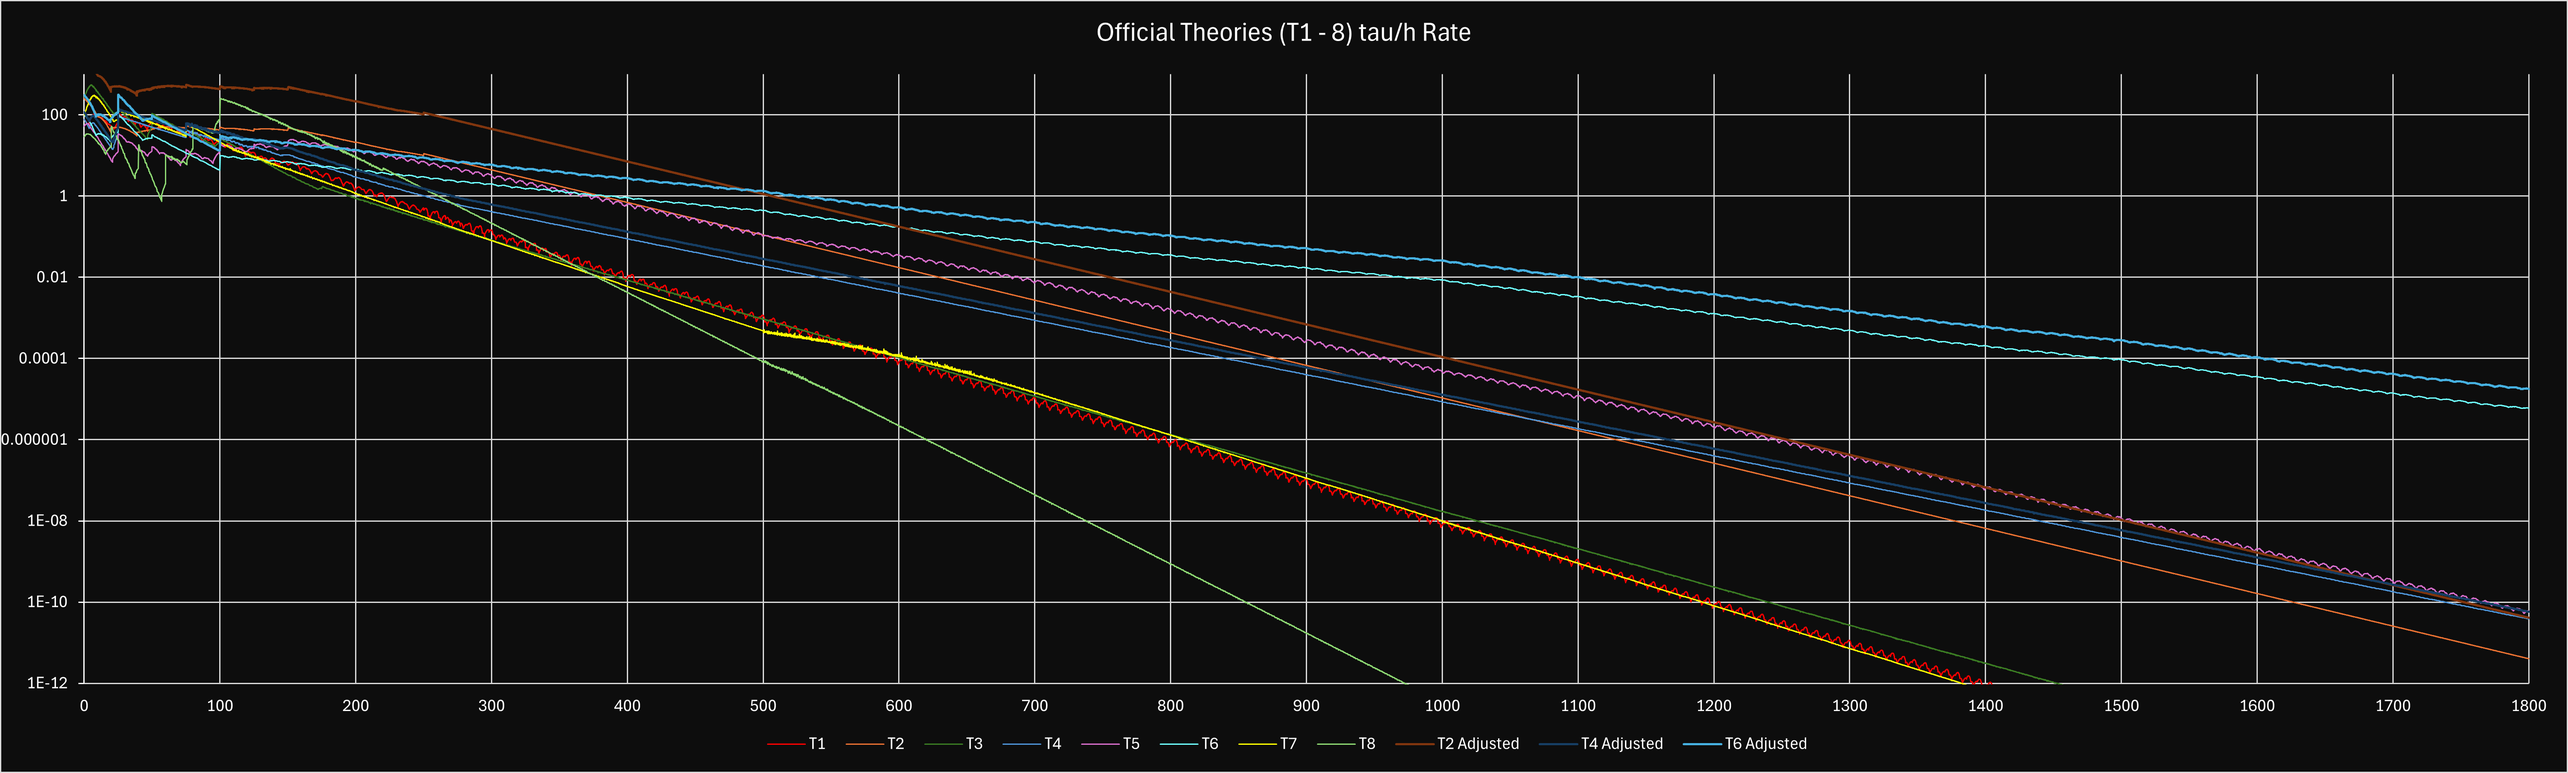
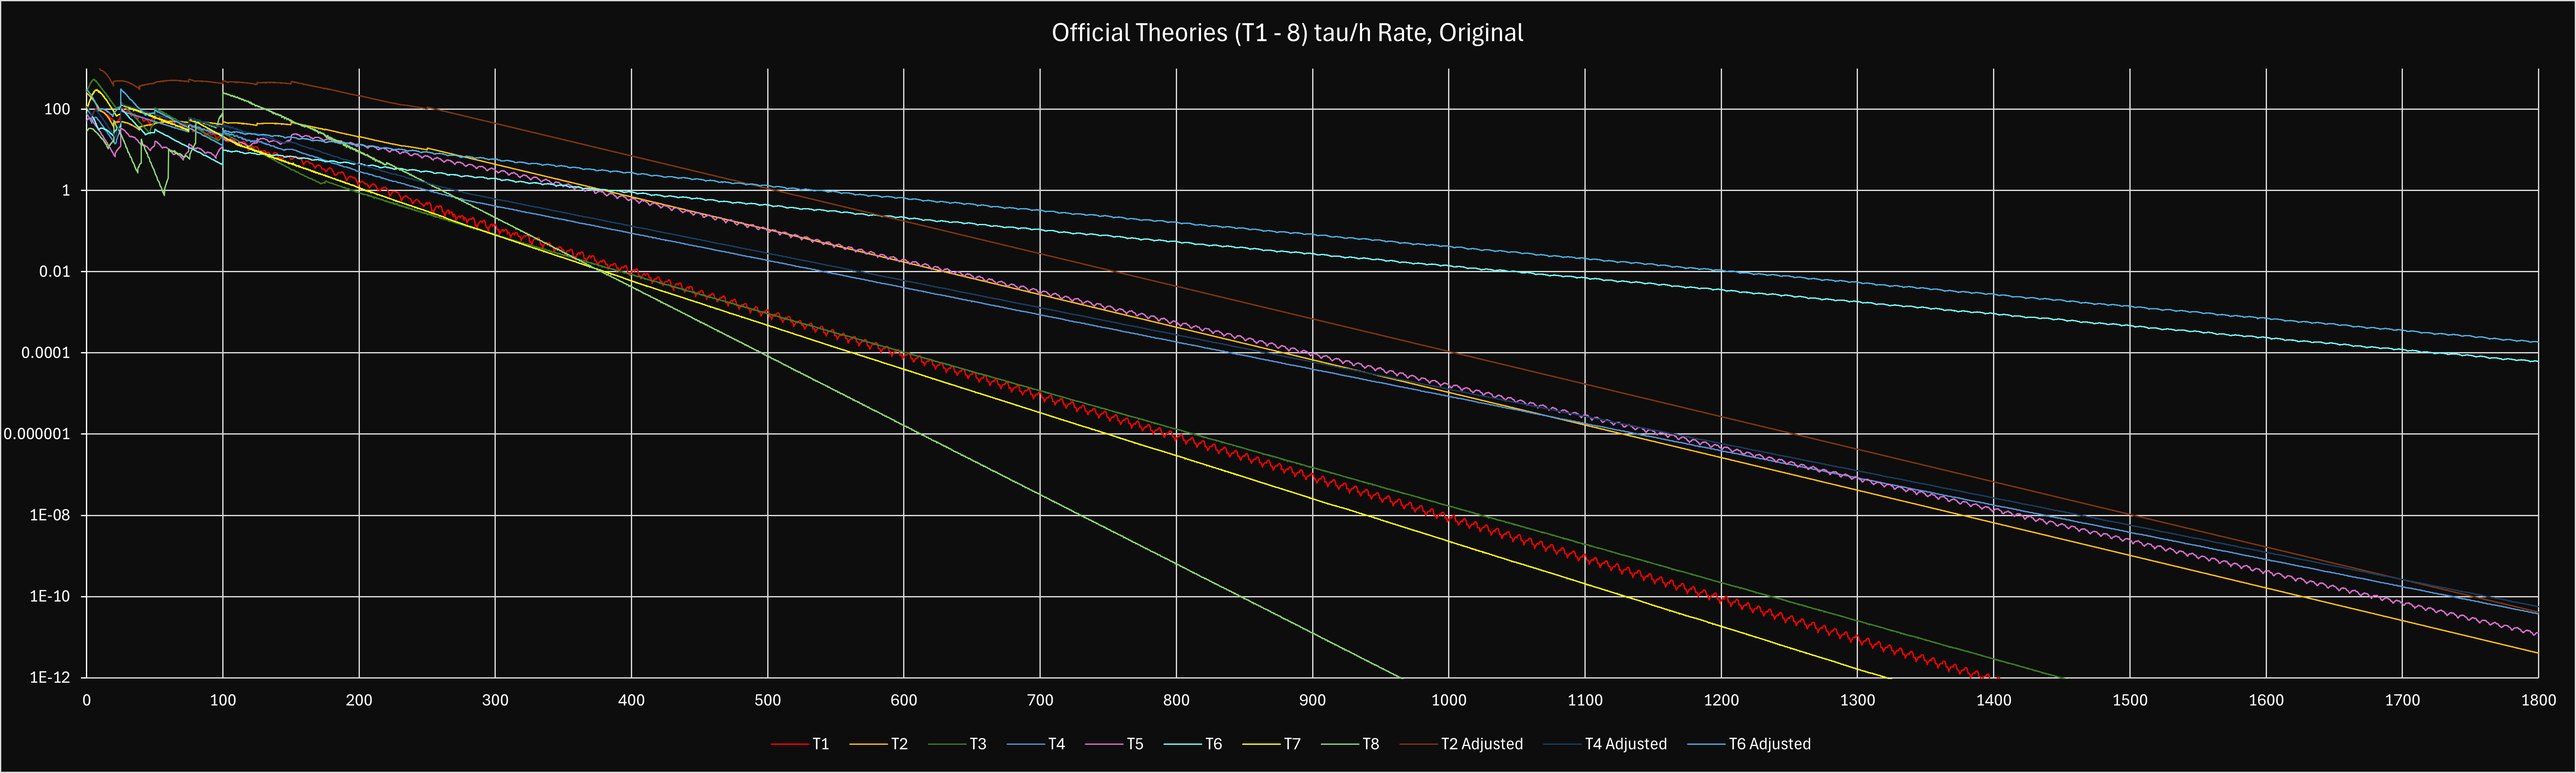
update graphs part 2 electric boogaloo

diff --git a/src/view/guides/endgame.md b/src/view/guides/endgame.md
@@ -66,7 +66,13 @@ For best theory routing and pushing, use the [Theory Sim](https://exponential-de
 
 |   |   |
 | - | - |
-|   | [FOOT;] T1-8 rate vs. $\tau$ |
+|   | [FOOT;] T1-8 $\dot{\tau}$ vs. $\tau$ |
+
+![T1-8 Rate vs. τ adjusted for student count (R9 boost)](/images/ot_rate_adjusted_graph.png)
+
+|   |   |
+| - | - |
+|   | [FOOT;] T1-8 $\dot{\tau}$ vs. $\tau$ adjusted for student count (R9 boost) |
 
 ###### Reminder: Do T9 right upon unlocking it, reaching ee20k. This will unlock [Custom Theories](/guides/custom-theories) significantly improving progress.
 

diff --git a/src/view/guide-extensions/which-theory-should-i-push.md b/src/view/guide-extensions/which-theory-should-i-push.md
@@ -43,7 +43,13 @@ The faster a theory's $\dot{\tau}$, the more we should do it. This is because we
 
 |   |   |
 | - | - |
-|   | [FOOT;] T1-8 rate vs. $\tau$ |
+|   | [FOOT;] T1-8 $\dot{\tau}$ vs. $\tau$ |
+
+![T1-8 Rate vs. τ adjusted for student count (R9 boost)](/images/ot_rate_adjusted_graph.png)
+
+|   |   |
+| - | - |
+|   | [FOOT;] T1-8 $\dot{\tau}$ vs. $\tau$ adjusted for student count (R9 boost) |
 
 ## Overpushing implications
 

diff --git a/src/view/guides/custom-theories.md b/src/view/guides/custom-theories.md
@@ -28,7 +28,7 @@ If you have time for active strategies, try to do the CT with the highest active
 
 |   |   |
 | - | - |
-|   | [FOOT;] CT rate vs. $\tau$ |
+|   | [FOOT;] CT $\dot{\tau}$ vs. $\tau$ |
 
 ###### Graph made by Hackzzzzzz
 
